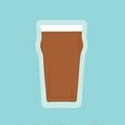
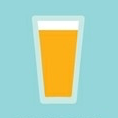
update beer profile graphic

Changed region(s): [[0.2542, 0.1271, 0.7373, 0.839], [0.3305, 0.839, 0.661, 0.8898]]

diff --git a/www/templates/menu.html b/www/templates/menu.html
@@ -18,7 +18,7 @@
       <ion-list>
       
       <a class="item item-avatar" menu-close href="#/app/settings">
-        <img ng-src="{{(user.profilePhotoUrl || './img/profile.png')}}">
+        <img ng-src="{{(user.profilePhotoUrl || './img/beer.png')}}">
         <h2>{{user.name}}</h2>
         <p>{{(user.rank || 'Cocktail Napkin')}}</p>
       </a>
